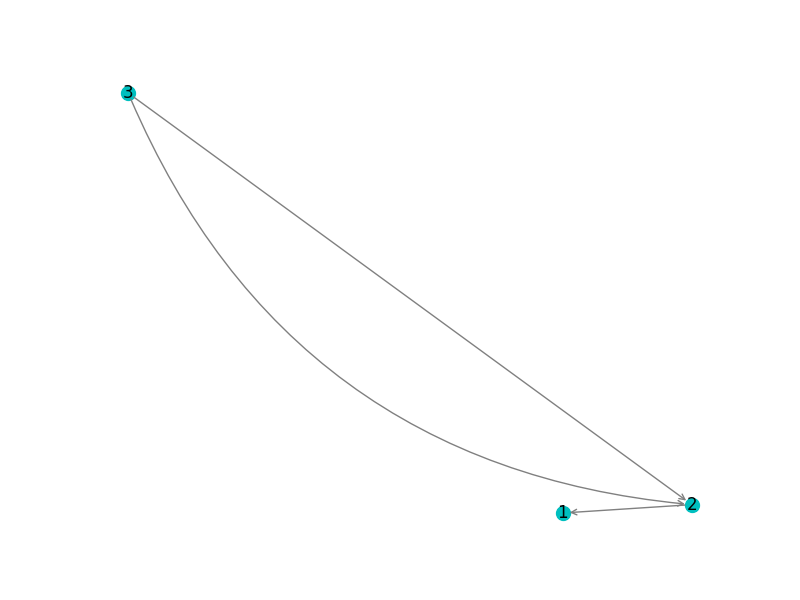
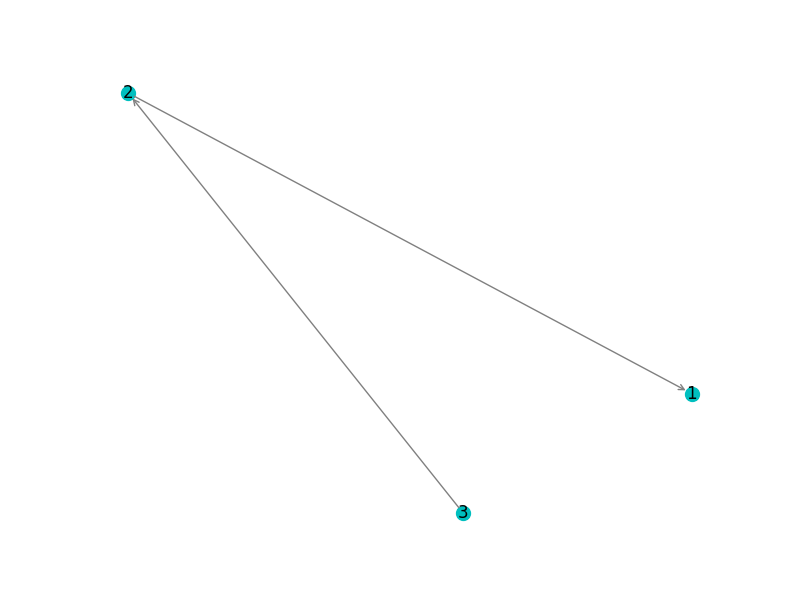
fixed polynomial evaluation and added polynomial expression on plotted graph

diff --git a/main.py b/main.py
@@ -32,7 +32,7 @@ class OutagePolynomial(sympy.Function):
         sum=0
         for  i in index:
             # Evaluate sum = A(x) = A(p/(1-p)) :
-            A_i = coefs[i-1]
+            A_i = coefs[i-m]
             # sum = sum + A_i * pow(x, i)
             sum = sum + A_i*(pow(element, i))*(pow(1-element, n-i))
         # Evaluate O(p)
@@ -42,13 +42,14 @@ class OutagePolynomial(sympy.Function):
     return result
   @classmethod
   # defining subclass function with 'eval()' class method
-  def plot(cls, x, y):
+  def plot(cls, x, y, string_expanded_polynomial):
     ### PLOT
     # convert y-axis to Logarithmic scale
     plt.yscale("log")
     # plotting the points
     plt.plot(x, y)
-
+    # legend
+    plt.legend([string_expanded_polynomial])
     # naming the x axis
     plt.xlabel('p')
     # naming the y axis
@@ -103,7 +104,8 @@ s_node = 1
 t_node = 3
 # Edges 
 # G.add_edges_from([(1, 2, 0, {'capacity': "e1"}), (1, 2, 1, {'capacity': "e2"}), (2, 3, 0, {'capacity': "e3"}), (2, 3, 1, {'capacity': "e4"})])
-G.add_edges_from([(1, 2, 0, {'capacity': "e1"}), (2, 3, 0, {'capacity': "e2"}), (2, 3, 1, {'capacity': "e3"})])
+# G.add_edges_from([(1, 2, 0, {'capacity': "e1"}), (2, 3, 0, {'capacity': "e2"}), (2, 3, 1, {'capacity': "e3"})])
+G.add_edges_from([(1, 2, 0, {'capacity': "e1"}), (2, 3, 0, {'capacity': "e2"})])
 # G.add_edge(1, 2, 2, capacity=2.0)  # Add another edge with a different key
 # print(list(G.nodes))
 # print(list(G.edges))
@@ -197,7 +199,7 @@ for minimum_cut_set in M:
     # K.append(min_cut_set)
     print(minimum_cut_set)
 
-number_of_nodes = G.number_of_nodes() # noted n in Kschischang's paper
+number_of_edges = G.number_of_edges() # noted n in Kschischang's paper
 minimum_cut_size = len(M[0]) # noted m in Kschischang's paper
 
 # Finding coefficients for A(x) in reliability polynomial : Am = number of cut-sets of size m, Am+1 = number of cut-sets of size m+1 etc...
@@ -212,11 +214,20 @@ list_of_cut_set_sizes = sorted(temp_list_of_cut_set_sizes)
 # coefficients for A(x) :
 coefs = list(dict(Counter(list_of_cut_set_sizes)).values())
 m = minimum_cut_size
-n = number_of_nodes
+n = number_of_edges
+x, y, z = sympy.symbols('x y z')
+polynomial = 0
+# index = [1, 2, 3] # from m to n, here from 1 to 3
+indices = list(range(m, n+1))
+# list_indices = [index for index, _ in enumerate(indices)]
+for i in indices :
+    polynomial = polynomial + coefs[i-m]*pow(x,i)*pow((1-x),(n-i))
+    # print(i)
+string_expanded_polynomial = str(sympy.expand(polynomial)).replace('x', 'p')
 
 p = numpy.linspace(0.01, 0.99, num=1000)
 O_p = OutagePolynomial.eval(p, m, n, coefs)
-OutagePolynomial.plot(p, O_p)
+OutagePolynomial.plot(p, O_p, string_expanded_polynomial)
 
 
 

diff --git a/test.py b/test.py
@@ -35,12 +35,16 @@ class A(sympy.Function):
     return result
   @classmethod
   # defining subclass function with 'eval()' class method
-  def plot(cls, x, y):
+  def plot(cls, x, y, polynomial):
     ### PLOT
     # convert y-axis to Logarithmic scale
+    # coefs = [1, 3, 1]
     plt.yscale("log")
     # plotting the points
     plt.plot(x, y)
+
+    # legend
+    plt.legend([polynomial])
 
     # naming the x axis
     plt.xlabel('p')
@@ -56,8 +60,8 @@ class A(sympy.Function):
     # grid(b=True, which='major', color='b', linestyle='-')
 
     # Save the file and show the figure
-    plt.savefig("plotted_polynomial.png")
-
+    # plt.savefig("plotted_polynomial.png")
+    plt.show()
 ## Call of the function
 # x = []
 # # Get p/(1-p)
@@ -70,12 +74,20 @@ n=3 # number of edges
 # values of coefficients A_i, given by the number of cut-sets of size i, with i between m and n included
 coefs = [1, 3, 1]
 
-p = numpy.linspace(0.01, 0.99, num=1000)
+x, y, z = sympy.symbols('x y z')
+polynomial = 0
+index = [1, 2, 3] # from m to n, here from 1 to 3
+for i in index :
+    polynomial = polynomial + coefs[i-1]*pow(x,i)*pow((1-x),(n-i))
+    # print(i)
+expanded_polynomial = str(sympy.expand(polynomial)).replace('x', 'p')
+print("Here is polynomial : ", polynomial)
+print("Here is expanded polynomial : ", expanded_polynomial)
+p = numpy.linspace(0.01, 0.99, num=10)
 O_p = A.eval(p, m, n, coefs)
-A.plot(p, O_p)
-print("Here is p : ",p)
+A.plot(p, O_p, expanded_polynomial)
 
-print("Here is O(p) : ", O_p)
+# print("Here is O(p) : ", O_p)
 
 # ### PLOT
 # # convert y-axis to Logarithmic scale
